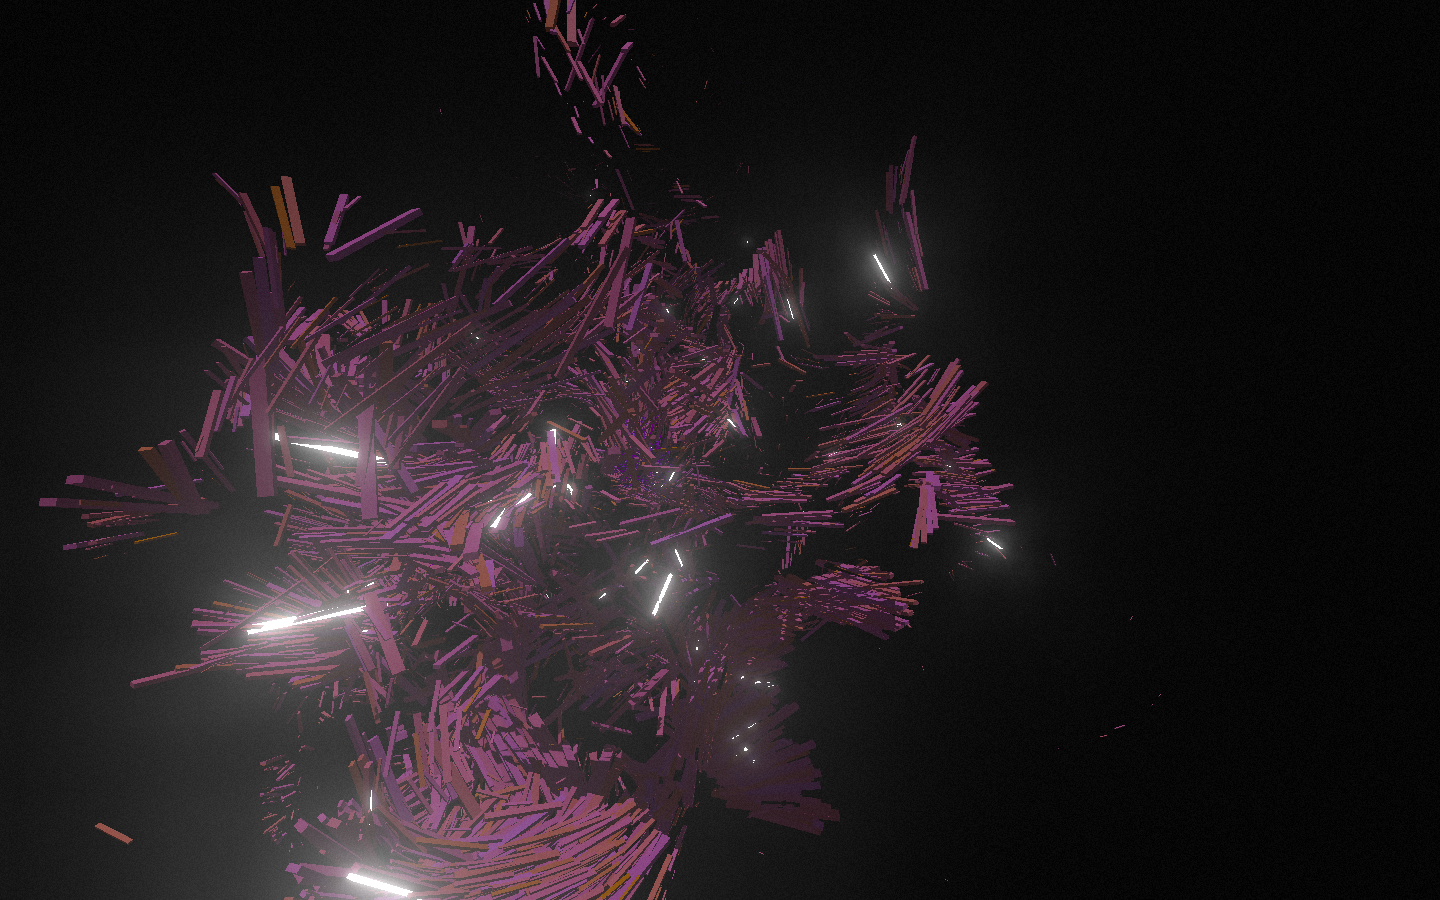
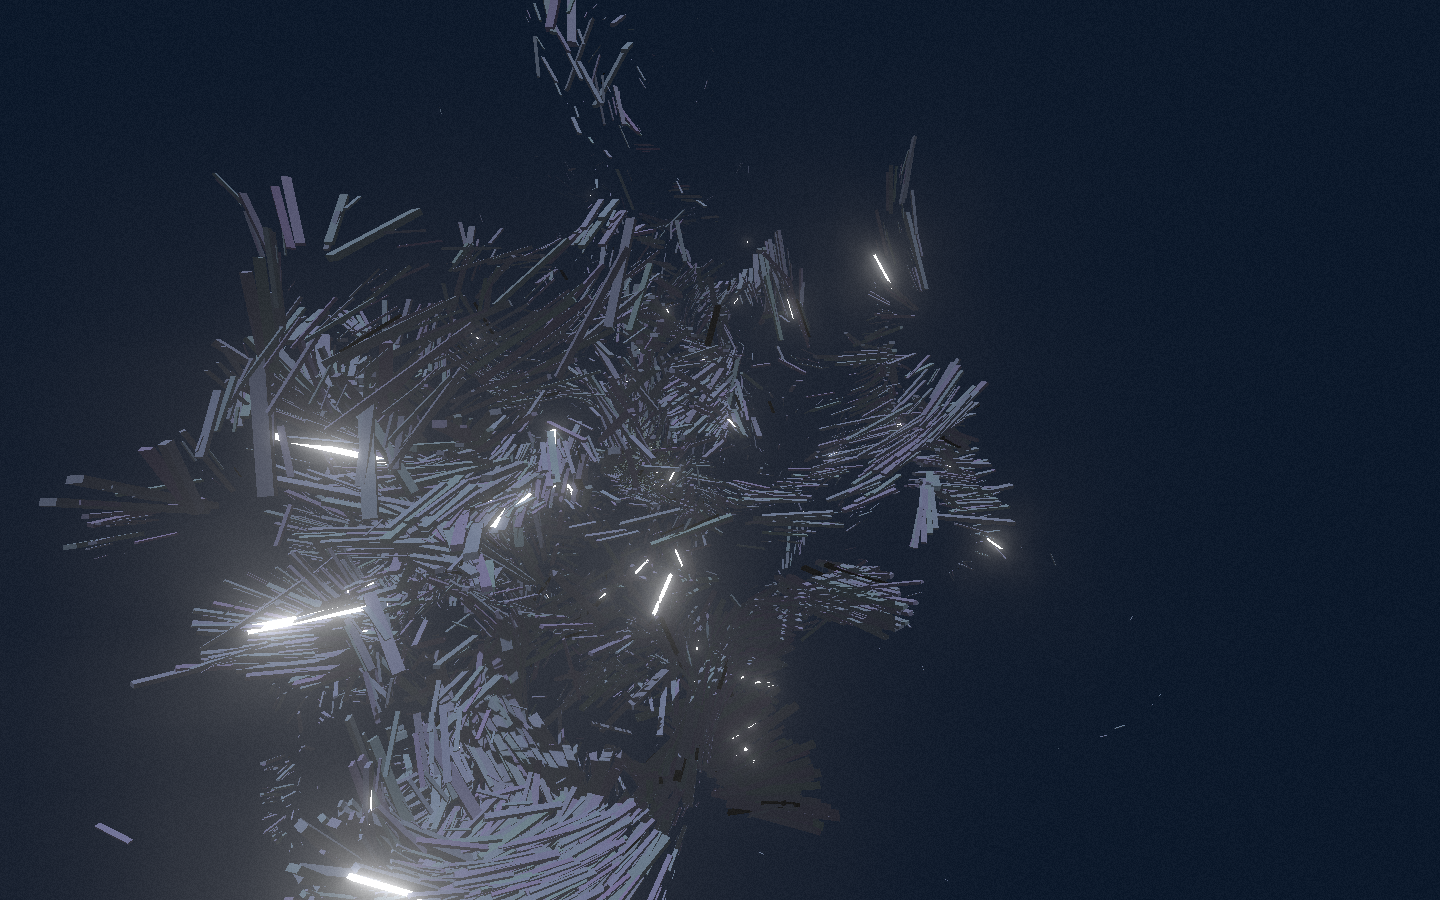
feat(wallpaper): align Flow palette with OS

diff --git a/tests/e2e/flow-shards.spec.js b/tests/e2e/flow-shards.spec.js
@@ -51,18 +51,37 @@ async function flowPixelCoverage(page, locator) {
     const context = canvas.getContext('2d');
     context.drawImage(bitmap, 0, 0);
     const pixels = context.getImageData(0, 0, bitmap.width, bitmap.height).data;
+    const background = [0x07, 0x14, 0x26];
+    let cool = 0;
     let hot = 0;
     let visible = 0;
+    let warm = 0;
     for (let offset = 0; offset < pixels.length; offset += 4) {
-      const maximum = Math.max(pixels[offset], pixels[offset + 1], pixels[offset + 2]);
+      const red = pixels[offset];
+      const green = pixels[offset + 1];
+      const blue = pixels[offset + 2];
+      const contrast = Math.max(
+        Math.abs(red - background[0]),
+        Math.abs(green - background[1]),
+        Math.abs(blue - background[2]),
+      );
       const luminance = (pixels[offset] * 0.2126)
         + (pixels[offset + 1] * 0.7152)
         + (pixels[offset + 2] * 0.0722);
-      if (maximum > 28) visible += 1;
+      if (contrast > 20) {
+        visible += 1;
+        if (blue - red > 20) cool += 1;
+        if (red - blue > 20) warm += 1;
+      }
       if (luminance > 120) hot += 1;
     }
     const pixelCount = pixels.length / 4;
-    return { hot: hot / pixelCount, visible: visible / pixelCount };
+    return {
+      cool: cool / pixelCount,
+      hot: hot / pixelCount,
+      visible: visible / pixelCount,
+      warm: warm / pixelCount,
+    };
   }, png.toString('base64'));
 }
 
@@ -150,6 +169,8 @@ test('reference Flow preserves dark breathing room around the shard field', asyn
   expect(coverage.visible).toBeLessThan(0.72);
   expect(coverage.hot).toBeGreaterThan(0.002);
   expect(coverage.hot).toBeLessThan(0.04);
+  expect(coverage.cool).toBeGreaterThan(0.04);
+  expect(coverage.cool).toBeGreaterThan(coverage.warm * 2);
 
   await page.evaluate(() => {
     globalThis.testFlowCoverage.renderer.destroy();

diff --git a/tests/unit/flow-shards-materials.test.js b/tests/unit/flow-shards-materials.test.js
@@ -1,0 +1,35 @@
+import test from 'node:test';
+import assert from 'node:assert/strict';
+import * as THREE from '../../vendor/three.module.min.js';
+import { createShardMaterials } from '../../scripts/environment/background/wallpapers/flow-shards/materials.js';
+
+const assertRgb = (color, expected) => {
+  assert.ok(Math.abs(color.r - expected[0]) < 1e-6);
+  assert.ok(Math.abs(color.g - expected[1]) < 1e-6);
+  assert.ok(Math.abs(color.b - expected[2]) < 1e-6);
+};
+
+test('the OS accent resolves to the blue-gray lifecycle palette', () => {
+  const shards = createShardMaterials({
+    THREE,
+    size: 1,
+    state: { currentTexture: {}, previousTexture: {} },
+    mapped: { baseSize: 1, bloomStrength: 1.43, stretch: 1 },
+    config: { shardColor: '#748BFF' },
+  });
+  const shader = {
+    uniforms: {},
+    vertexShader: '#include <common>\n#include <beginnormal_vertex>\n#include <begin_vertex>',
+    fragmentShader: [
+      '#include <common>',
+      'vec4 diffuseColor = vec4( diffuse, opacity );',
+      '#include <opaque_fragment>',
+    ].join('\n'),
+  };
+
+  shards.material.onBeforeCompile(shader);
+
+  assertRgb(shader.uniforms.uPrimaryColor.value, [0x74 / 255, 0x8B / 255, 1]);
+  assertRgb(shader.uniforms.uSecondaryColor.value, [0x40 / 255, 0x56 / 255, 0x6A / 255]);
+  shards.dispose();
+});

diff --git a/tests/unit/flow-shards-config.test.js b/tests/unit/flow-shards-config.test.js
@@ -30,10 +30,10 @@ test('density tiers and semantic endpoints map to bounded renderer values', () =
   assert.equal(mapFlowShardsConfig({ speed: 100 }).timeScale, 2);
 });
 
-test('reference preset matches the original lab palette, density, and motion profile', () => {
+test('reference preset uses the OS palette while preserving the source motion profile', () => {
   assert.equal(FLOW_SHARDS_DEFAULT_CONFIG.density, 'high');
-  assert.equal(FLOW_SHARDS_DEFAULT_CONFIG.backgroundColor, '#000000');
-  assert.equal(FLOW_SHARDS_DEFAULT_CONFIG.shardColor, '#FF3C3C');
+  assert.equal(FLOW_SHARDS_DEFAULT_CONFIG.backgroundColor, '#071426');
+  assert.equal(FLOW_SHARDS_DEFAULT_CONFIG.shardColor, '#748BFF');
 
   const mapped = mapFlowShardsConfig(FLOW_SHARDS_DEFAULT_CONFIG);
   assert.equal(mapped.simulationSize, 128);

diff --git a/scripts/environment/background/wallpapers/flow-shards/materials.js b/scripts/environment/background/wallpapers/flow-shards/materials.js
@@ -95,8 +95,8 @@ function setRawHex(color, value) {
 
 function setPalette(THREE, uniforms, primaryValue) {
   setRawHex(uniforms.uPrimaryColor.value, primaryValue);
-  if (primaryValue.toUpperCase() === '#FF3C3C') {
-    setRawHex(uniforms.uSecondaryColor.value, '#5A008C');
+  if (primaryValue.toUpperCase() === '#748BFF') {
+    setRawHex(uniforms.uSecondaryColor.value, '#40566A');
     return;
   }
   const secondary = new THREE.Color();

diff --git a/tests/e2e/wallpaper-setting.spec.js b/tests/e2e/wallpaper-setting.spec.js
@@ -369,8 +369,8 @@ test('copy fallback and downloads use the same normalized deterministic JSON', a
       glow: 58,
       shadow: 56,
       fog: 44,
-      backgroundColor: '#000000',
-      shardColor: '#FF3C3C',
+      backgroundColor: '#071426',
+      shardColor: '#748BFF',
     },
   });
   expect(firstText).not.toContain('timestamp');

diff --git a/scripts/environment/background/wallpapers/flow-shards/config.js b/scripts/environment/background/wallpapers/flow-shards/config.js
@@ -22,8 +22,8 @@ export const FLOW_SHARDS_DEFAULT_CONFIG = Object.freeze({
   glow: 58,
   shadow: 56,
   fog: 44,
-  backgroundColor: '#000000',
-  shardColor: '#FF3C3C',
+  backgroundColor: '#071426',
+  shardColor: '#748BFF',
 });
 
 const preset = (config) => Object.freeze({ ...FLOW_SHARDS_DEFAULT_CONFIG, ...config });
